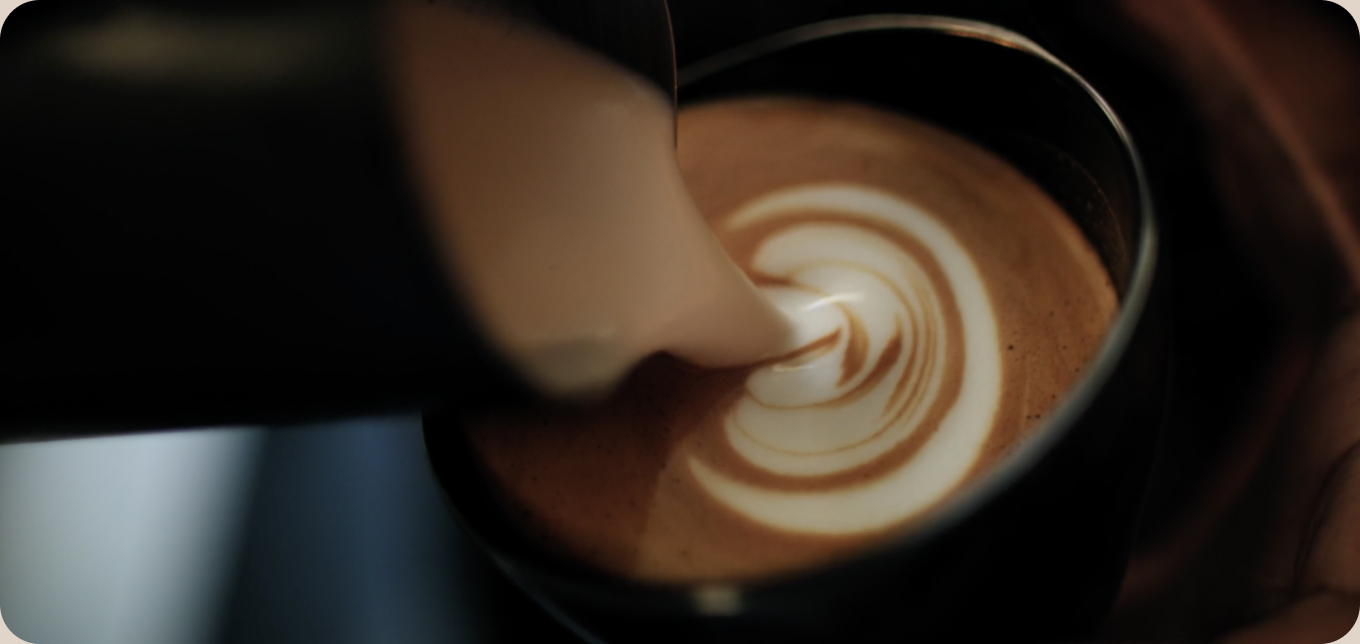
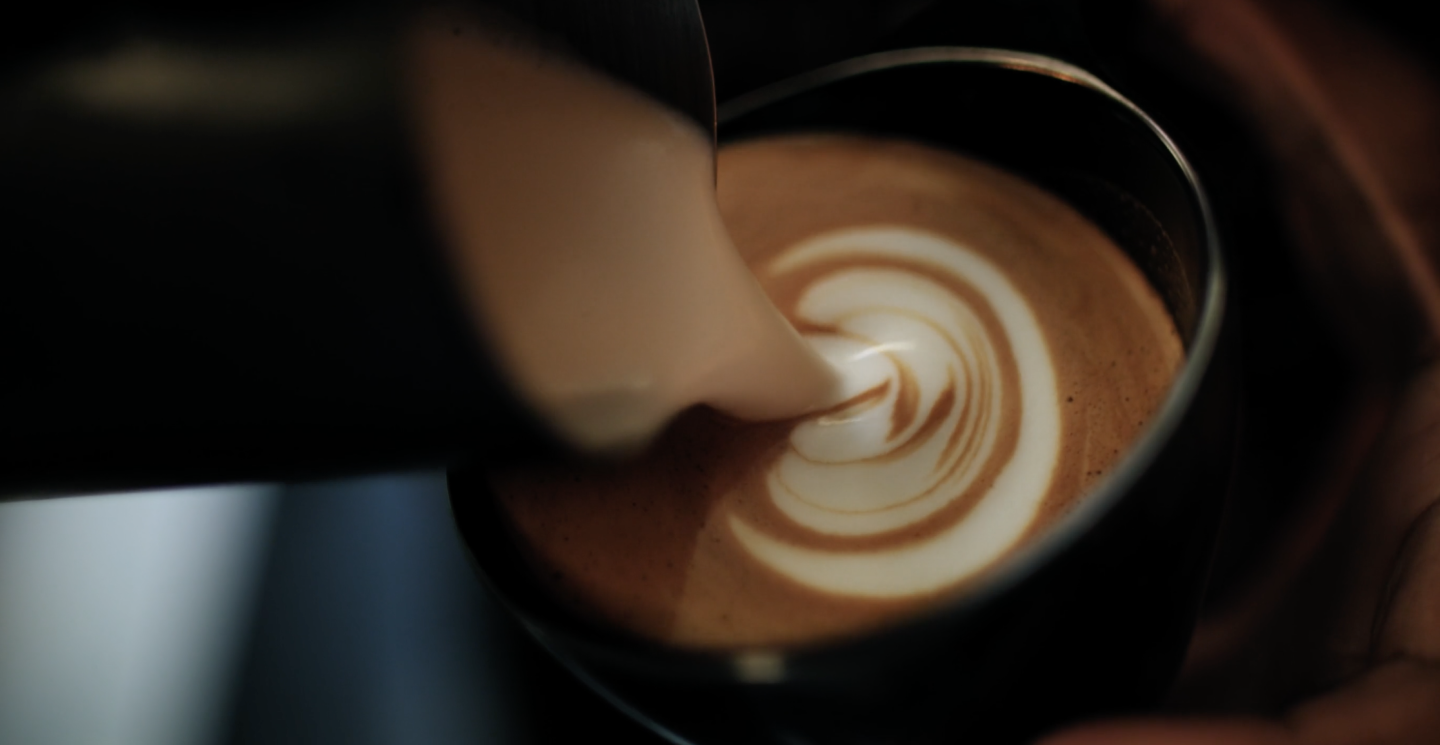
init: start coffee-house task two week

diff --git a/main/style.css b/main/style.css
@@ -18,7 +18,7 @@
   bottom: 0;
   width: 0;
   height: 2px;
-  background-color: #403F3D;
+  background-color: #403f3d;
   transition: width 0.3s ease-out, left 0.3s ease-out, right 0.3s ease-out;
 }
 
@@ -36,7 +36,7 @@
 }
 
 .menu-wrap:hover::after {
-  right: 0%; 
+  right: 0%;
   width: 50%;
 }
 
@@ -46,11 +46,17 @@
   max-width: 94.5%;
   position: relative;
   margin: 0 auto 94px auto;
+  height: 648px;
+  overflow: hidden;
+  border-radius: 40px;
 }
 
 .presentation {
   margin: 0 auto;
-  width: 100%;
+  max-width: 100%;
+  position: absolute;
+  border-radius: 40px;
+  top: -37px;
 }
 
 .text-block {
@@ -207,7 +213,7 @@
 }
 
 .arrow:hover .my-svg path {
-  stroke: #E1D4C9;
+  stroke: #e1d4c9;
 }
 
 .favorites__text {
@@ -422,20 +428,20 @@
   transition: background 0.3s ease;
 }
 
-.button-link:hover .button-image path{
-  fill: #E1D4C9;
+.button-link:hover .button-image path {
+  fill: #e1d4c9;
 }
 
 .button-link:hover .first-sentence {
-  color: #E1D4C9;
+  color: #e1d4c9;
 }
 
 .button-link:hover .second-sentence {
-  color: #E1D4C9;
+  color: #e1d4c9;
 }
 
 .button-link:hover {
-  background: #665F55;
+  background: #665f55;
 }
 
 .button-text {
@@ -480,3 +486,58 @@
 }
 
 /* mobile end */
+
+@media (max-width: 768px) {
+  .enjoy {
+    max-width: 89.5%;
+  }
+  .presentation {
+    max-width: 182%;
+    position: absolute;
+    top: 0%;
+    right: -41%;
+  }
+  .text-block {
+    max-width: 95%;
+    left: 38px;
+  }
+  .item_2,
+  .item_3,
+  .item_4,
+  .item_5,
+  .item_6,
+  .item_8 {
+    display: none;
+  }
+  .item_7 {
+    position: relative;
+    width: 44px;
+    height: 44px;
+    border-radius: 100px;
+    border: 1px solid var(--border-dark, #665f55);
+    flex-grow: 1 !important;
+    position: absolute;
+    right: 40px;
+  }
+
+  .burger-top {
+    background-image: url('../assets/icons/vector-one.svg');
+    position: absolute;
+    top: 35%;
+    left: 30%;
+    width: 16px;
+    height: 2px;
+    stroke-width: 1.5px;
+    stroke: var(--text-dark, #403f3d);
+  }
+  .burger-bottom {
+    background-image: url('../assets/icons/vector-one.svg');
+    position: absolute;
+    bottom: 35%;
+    left: 30%;
+    width: 16px;
+    height: 2px;
+    stroke-width: 1.5px;
+    stroke: var(--text-dark, #403f3d);
+  }
+}

diff --git a/main/index.html b/main/index.html
@@ -27,7 +27,7 @@
           <li class="nav__item item_4"><a href="#about" class="link-hover">About</a></li>
           <li class="nav__item item_5"><a href="#mobile" class="link-hover">Mobile app</a></li>
           <li class="nav__item item_6"><a href="#contact" class="link-hover">Contact us</a></li>
-          <li class="nav__item item_7"></li>
+          <li class="nav__item item_7"><span class="burger-top"></span><span class="burger-bottom"></span></li>
           <li class="nav__item item_8">
             <div class="menu-wrap">
               <a href="../menu/index.html">Menu

diff --git a/menu/index.html b/menu/index.html
@@ -28,7 +28,7 @@
           <li class="nav__item item_4"><a href="../main/#about" class="link-hover">About</a></li>
           <li class="nav__item item_5"><a href="../main/#mobile" class="link-hover">Mobile app</a></li>
           <li class="nav__item item_6"><a href="#contact" class="link-hover">Contact us</a></li>
-          <li class="nav__item item_7"></li>
+          <li class="nav__item item_7"><span class="burger-top"><span class="burger-bottom"></span></li>
           <li class="nav__item item_8">
             <div class="menu-wrap">
               <a href="#">Menu
